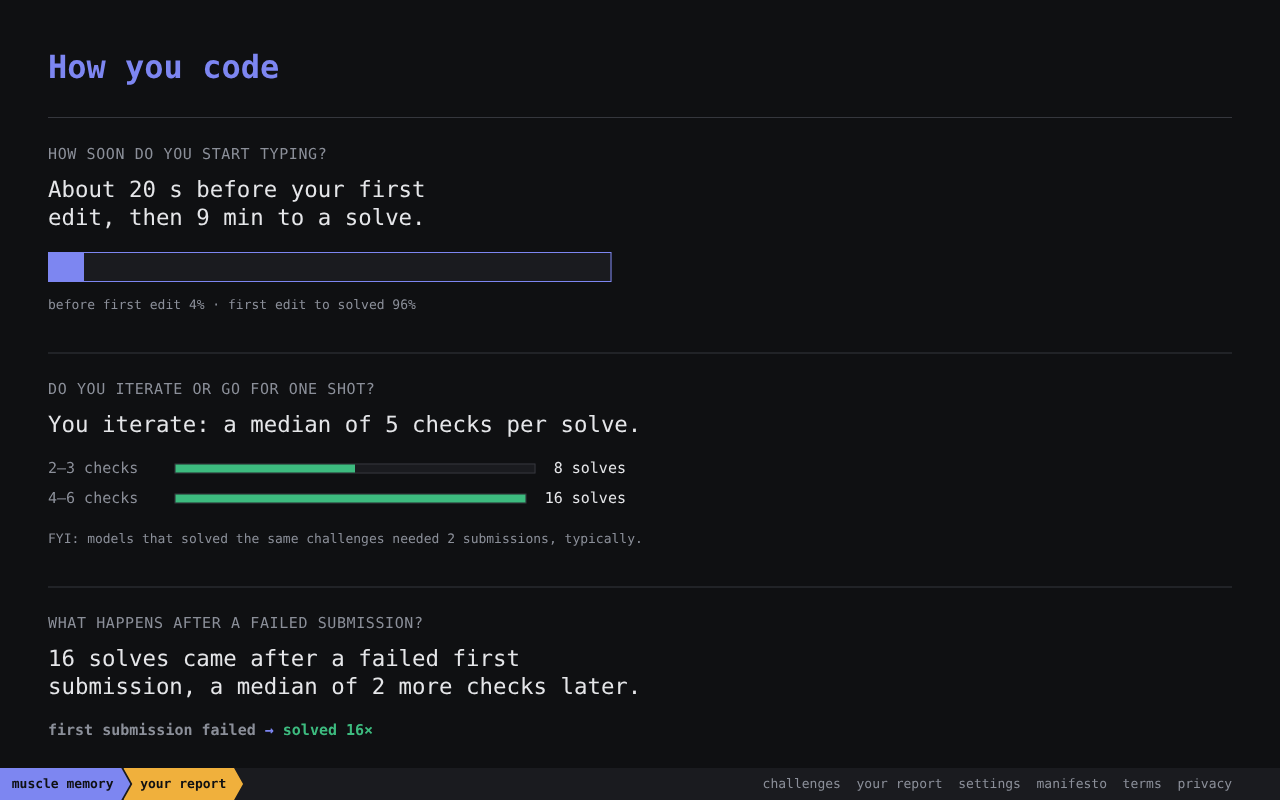
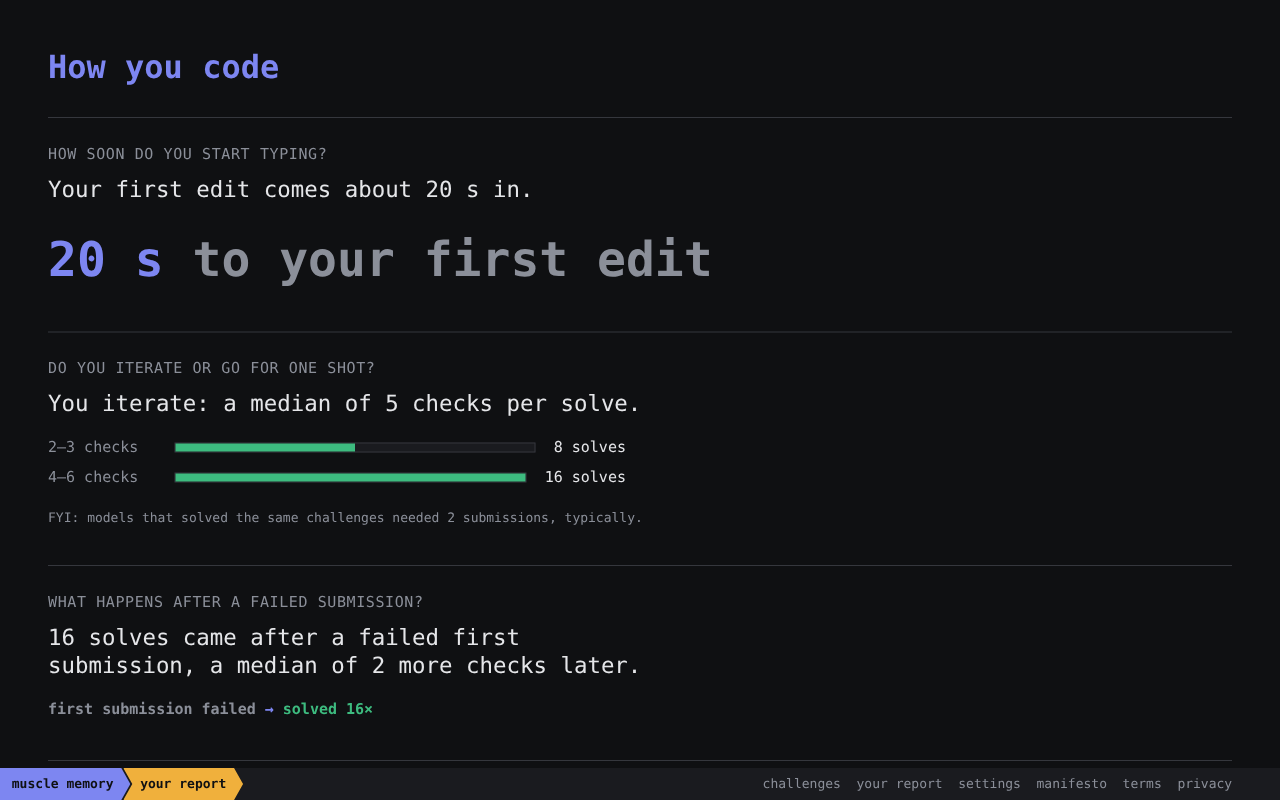
Recapture the portrait after the metric-claim fixes (ENG-374)

diff --git a/docs/eng-374-evidence/portrait/README.md b/docs/eng-374-evidence/portrait/README.md
@@ -2,7 +2,7 @@
 
 Synthetic store of 32 attempts (1,480 records, about 1 MiB), real public challenge keys, no player data. Model results and uploads were mocked where noted. Local production build (`next build` + `next start`), Chromium. 27 October 2026.
 
-- [Mobile](mobile.png), 390×844: "How you code", then the questions this evidence can answer (start, iterate with one model FYI, recovery, patch or rewrite, languages). The fixture has no key bursts and its solves are at one difficulty, so typing and difficulty are left out, not shown empty. Page padding 16 px, no sideways scroll.
+- [Mobile](mobile.png), 390×844: "How you code", then the questions this evidence can answer: first edit, iterate (with one model FYI), recovery, edit sizes and languages. The fixture has no runs of typed code characters, and its solves are at one difficulty, so typing and difficulty are left out, not shown empty. Recaptured after the metric-claim fixes (`1f27459`). Page padding 16 px, no sideways scroll.
 - [Desktop](desktop.png), 1280×800: the same, at the shared 48 px left edge.
 
 ## Measured (time from click or navigation)
@@ -11,6 +11,7 @@ Synthetic store of 32 attempts (1,480 records, about 1 MiB), real public challen
 | --- | --- | --- | --- | --- |
 | Full reload of `/stats`, uploads route unavailable locally | first paint 52 ms, largest paint 60 ms | on screen at load | none (results unconfigured) | "couldn't be added" line |
 | Cold in-app visit, uploads mocked at 1.5 s, model results at 0.6 s | 33 ms | 80 ms | 684 ms | 1,544 ms; answers never waited |
+| Re-run after the metric-claim fixes, uploads 0.8 s, model results 0.3 s | — | 110 ms | 110–860 ms | 860 ms |
 | Warm revisit, uploads route unavailable | 29 ms | 68 ms | none | immediate status line |
 | Model results down (503) | unchanged | 5 answers | none, and no wording about models | n/a |
 | Reset inside the open report | cleared in 2 ms | back from device evidence in 35 ms | n/a | no history request |
